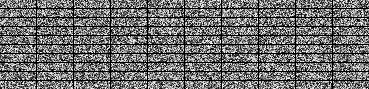
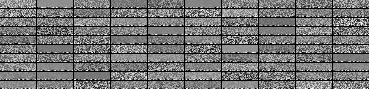
145860 frames, regular coruption

diff --git a/code/load_mp3.py b/code/load_mp3.py
@@ -115,128 +115,7 @@ def load_data(dataset):
 
 
 
-
-
-def test_dA( learning_rate = 0.1, training_epochs = 15, dataset ='/home/dmitry/mp3/hhgttg01010060.mp3',
-        batch_size = 20, output_folder = 'dA_plots' ):
-
-    """
-    This demo is tested on /home/dmitry/mp3/hhgttg01010060.mp2
-
-    :type learning_rate: float
-    :param learning_rate: learning rate used for training the DeNosing AutoEncoder
-
-    :type training_epochs: int
-    :param training_epochs: number of epochs used for training 
-
-    :type dataset: string
-    :param dataset: path to the picked dataset
-
-    """
-    datasets = load_data(dataset)
-    train_set_x, train_set_y = datasets[0]
-
-    # compute number of minibatches for training, validation and testing
-    n_train_batches = train_set_x.value.shape[0] / batch_size
-
-    # allocate symbolic variables for the data
-    index = T.lscalar()    # index to a [mini]batch 
-    x     = T.matrix('x')  # the data is presented as rasterized images
-
-    
-    if not os.path.isdir(output_folder):
-        os.makedirs(output_folder)
-    os.chdir(output_folder)
-    ####################################
-    # BUILDING THE MODEL NO CORRUPTION #
-    ####################################
-
-    rng        = numpy.random.RandomState(123)
-    theano_rng = RandomStreams( rng.randint(2**30))
-
-    da = dA(numpy_rng = rng, theano_rng = theano_rng, input = x,
-            n_visible = S_DIM * F_DIM * X_DIM, n_hidden = 1000)
-
-    cost, updates = da.get_cost_updates(corruption_level = 0.,
-                                learning_rate = learning_rate)
-
-    
-    train_da = theano.function([index], cost, updates = updates,
-         givens = {x:train_set_x[index*batch_size:(index+1)*batch_size]})
-    
-    start_time = time.clock()
-
-    ############
-    # TRAINING #
-    ############
-
-    # go through training epochs
-    for epoch in xrange(training_epochs):
-        # go through trainng set
-        c = []
-        for batch_index in xrange(n_train_batches):
-            c.append(train_da(batch_index))
-
-        print 'Training epoch %d, cost '%epoch, numpy.mean(c)
-
-    end_time = time.clock()
-
-    training_time = (end_time - start_time)
-
-    print >> sys.stderr, ('The no corruption code for file '+os.path.split(__file__)[1]+' ran for %.2fm' % ((training_time)/60.))
-    image = PIL.Image.fromarray(tile_raster_images( X = da.W.value.T,
-                 img_shape = (S_DIM, F_DIM * X_DIM),tile_shape = (10,10), 
-                 tile_spacing=(1,1)))
-    image.save('filters_corruption_0.png') 
- 
-    #####################################
-    # BUILDING THE MODEL CORRUPTION 30% #
-    #####################################
-
-    rng        = numpy.random.RandomState(123)
-    theano_rng = RandomStreams( rng.randint(2**30))
-
-    da = dA(numpy_rng = rng, theano_rng = theano_rng, input = x,
-            n_visible = S_DIM * F_DIM * X_DIM, n_hidden = 1000)
-
-    cost, updates = da.get_cost_updates(corruption_level = 0.3,
-                                learning_rate = learning_rate)
-
-    
-    train_da = theano.function([index], cost, updates = updates,
-         givens = {x:train_set_x[index*batch_size:(index+1)*batch_size]})
-
-    start_time = time.clock()
-
-    ############
-    # TRAINING #
-    ############
-
-    # go through training epochs
-    for epoch in xrange(training_epochs):
-        # go through trainng set
-        c = []
-        for batch_index in xrange(n_train_batches):
-            c.append(train_da(batch_index))
-
-        print 'Training epoch %d, cost '%epoch, numpy.mean(c)
-
-    end_time = time.clock()
-
-    training_time = (end_time - start_time)
-
-    print >> sys.stderr, ('The 30% corruption code for file '+os.path.split(__file__)[1]+' ran for %.2fm' % (training_time/60.))
-
-    image = PIL.Image.fromarray(tile_raster_images( X = da.W.value.T,
-                 img_shape = (S_DIM, F_DIM * X_DIM),tile_shape = (10,10), 
-                 tile_spacing=(1,1)))
-    image.save('filters_corruption_30.png') 
- 
-    os.chdir('../')
-
-
 if __name__ == "__main__":    
-    from dA import dA
     d = "/home/dmitry/mp3/01- Hitchhikers Guide to the Galaxy"
     dataset = sorted([os.path.join(d, f) for f in os.listdir(d)])
     dataset = ["/home/dmitry/mp3/hhgttg01010060.mp3"]
@@ -263,7 +142,3 @@ if __name__ == "__main__":
                                   tile_spacing=(1,1), scale_rows_to_unit_interval = False,
                                   output_pixel_vals = False)
         matplotlib.pyplot.imsave(fname = 'hhgttg010100%d.png' % i, arr = arr)#, vmin = 0.0, vmax = 1.0)
-
-
-    quit()
-    test_dA(dataset = dataset[:1], training_epochs = 500)

diff --git a/code/dA.py b/code/dA.py
@@ -182,7 +182,8 @@ class dA(object):
                 is always 0 or 1, this don't change the result. This is needed to allow
                 the gpu to work correctly as it only support float32 for now.
         """
-        return  self.theano_rng.binomial( size = input.shape, n = 1, p =  1 - corruption_level, dtype=theano.config.floatX) * input
+        corruption = self.theano_rng.binomial( size = input.shape, n = 1, p =  1 - corruption_level, dtype=theano.config.floatX)
+        return  input * corruption + (1 - corruption) * 0.5
 
     
     def get_hidden_values(self, input):
@@ -350,20 +351,5 @@ if __name__ == "__main__":
     d = "/home/dmitry/mp3/01- Hitchhikers Guide to the Galaxy"
     dataset = sorted([os.path.join(d, f) for f in os.listdir(d)])
     #dataset = ["/home/dmitry/mp3/hhgttg01010060.mp3"]
-    test_dA(dataset = dataset[:1], training_epochs = 15)
-    quit()
-
-    # lame --preset cbr 48kbit -m mono
-    ((train_set_x, train_set_y), (valid_set_x,valid_set_y), (test_set_x, test_set_y)) = \
-        load_data(dataset[:1])
-        
-    #print "len(train_set_x)", len(train_set_x)
-    tN = 200
-    print "len(train_set_x.value.T)", len(train_set_x.value)
-    for i in xrange(len(train_set_x.value)//tN):
-        arr = tile_raster_images( X = train_set_x.value[i*tN:i*tN+tN],
-                                  img_shape = (S_DIM, F_DIM * X_DIM),tile_shape = (tN//10,10),
-                                  tile_spacing=(1,1), scale_rows_to_unit_interval = False,
-                                  output_pixel_vals = False)
-        matplotlib.pyplot.imsave(fname = 'hhgttg010100%d.png' % i, arr = arr)#, vmin = 0.0, vmax = 1.0)
+    test_dA(dataset = dataset[:5], training_epochs = 25)
 
